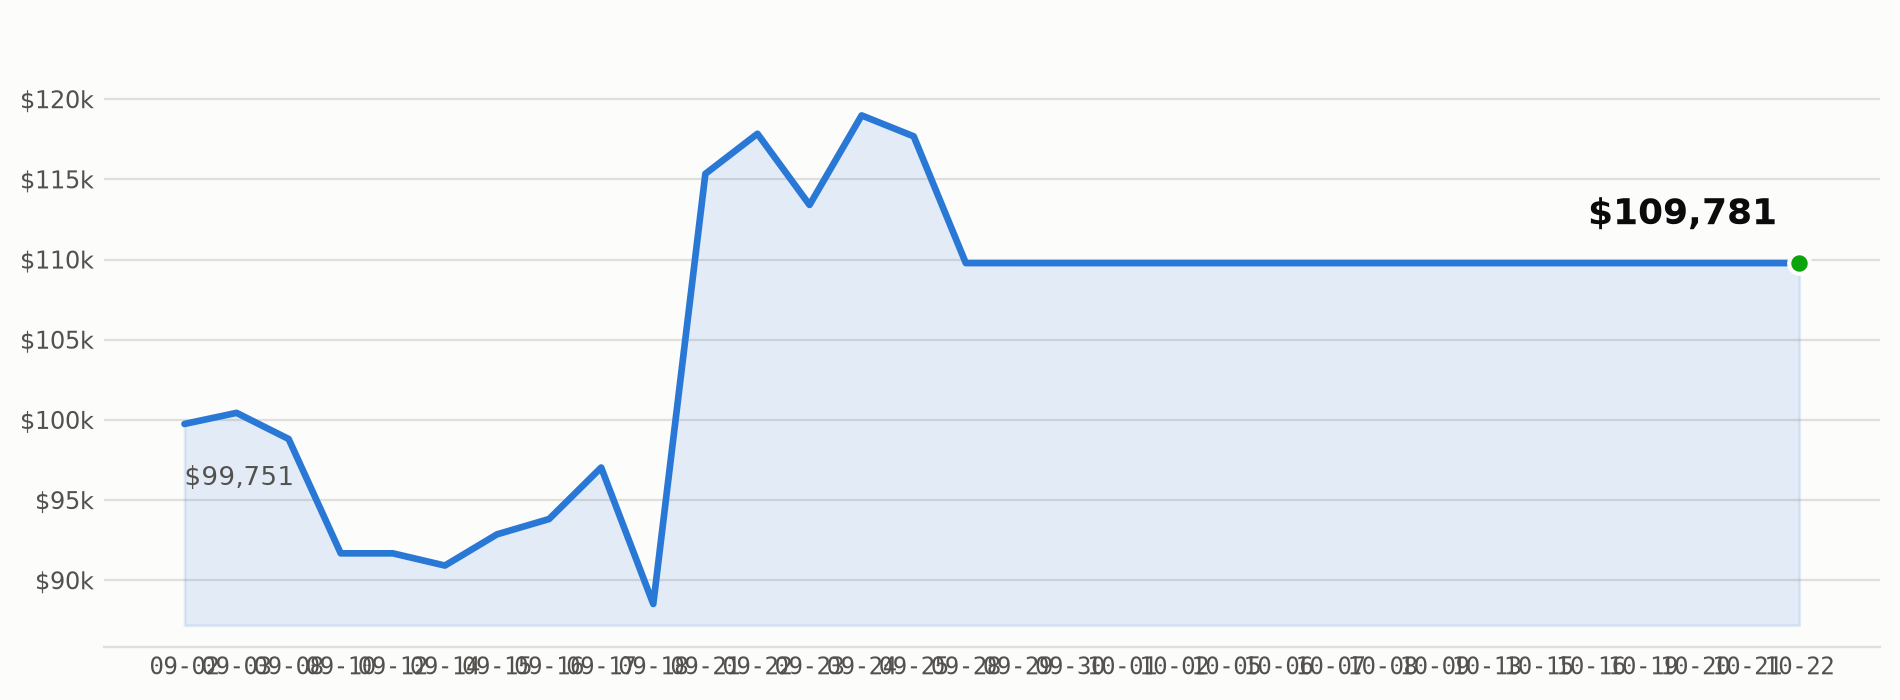
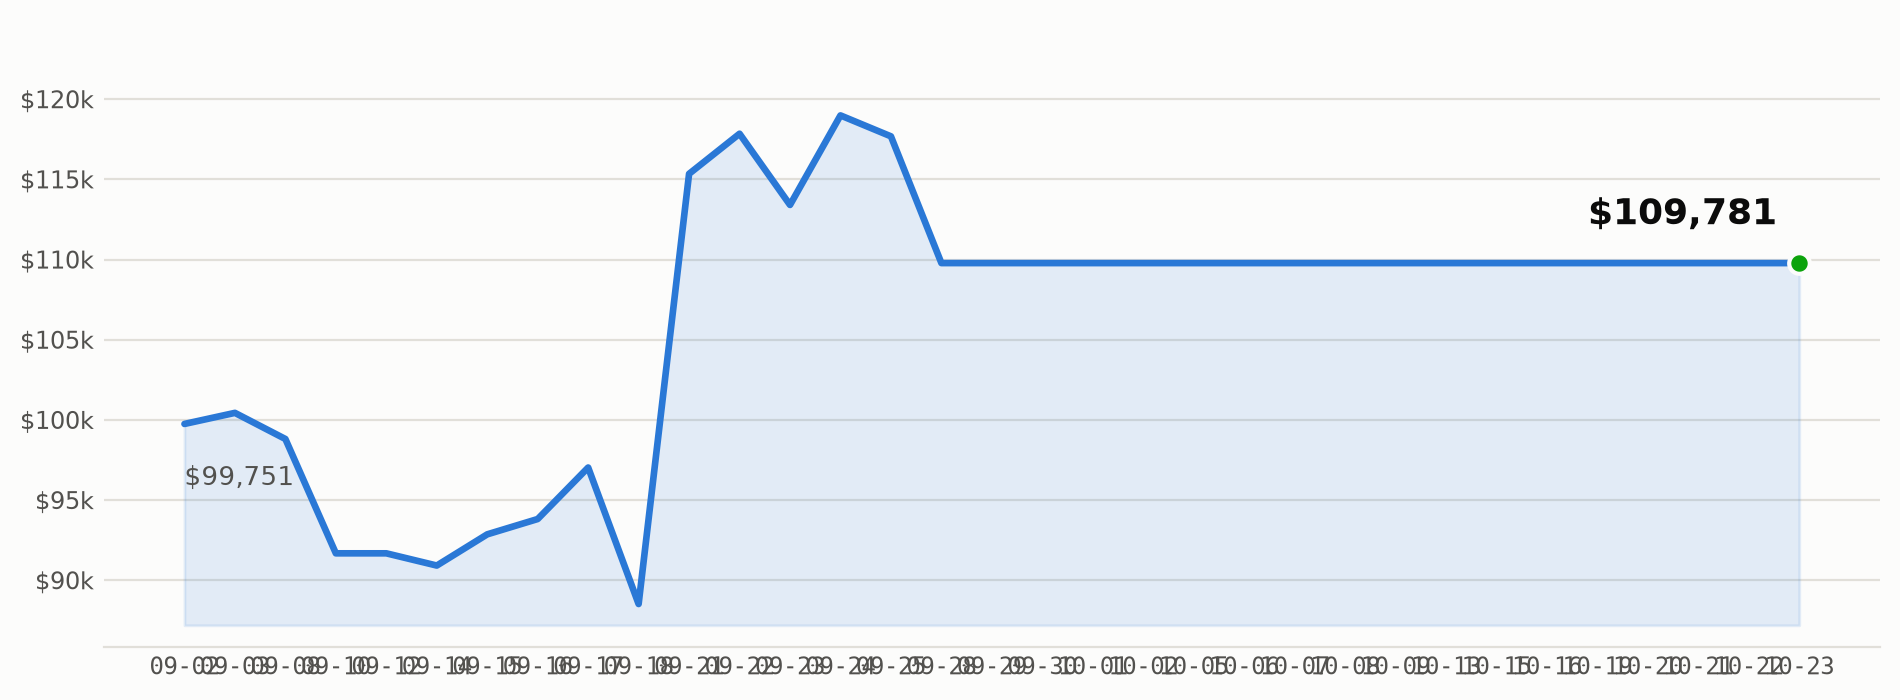
Daily dashboard update for 2026-10-23
Automated commit from scripts/daily_run.py after the market-close run.

diff --git a/README.md b/README.md
@@ -12,7 +12,7 @@ An autonomous AI trading agent for Alpaca's **Options Alpha** hackathon track.
 </p>
 
 <p align="center">
-  <img src="docs/equity_curve.png?v=2026-10-22-109781" alt="AlphaCa account equity over time, currently $109,781" width="800">
+  <img src="docs/equity_curve.png?v=2026-10-23-109781" alt="AlphaCa account equity over time, currently $109,781" width="800">
 </p>
 <!-- PNL_DASHBOARD_END -->
 
